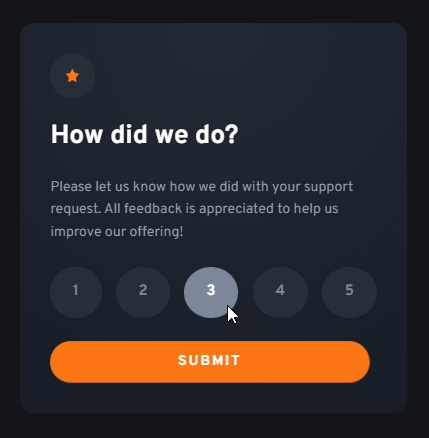
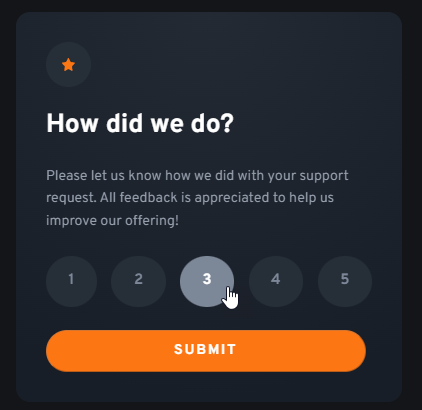
added pointer

diff --git a/index.html b/index.html
@@ -31,7 +31,7 @@
         <p class="support-question">Please let us know how we did with your support request. All feedback is appreciated 
         to help us improve our offering!</p>
 
-        <form class="button-group-ratings" action="" method="post">
+        <form class="button-group-ratings" action="#" method="post">
           <input type="radio" id="1" name="radios" value="1">
           <label id="lbl1" for="1">1</label>
           <input type="radio" id="2" name="radios" value="2">

diff --git a/css/styles.css b/css/styles.css
@@ -233,6 +233,7 @@ input[type="radio"] + label {
 input[type="radio"]:hover + label {
     color: #FFFFFF;
     background-color: #7C8798;
+    cursor: pointer;
   }
 
 /* Styling for the SUBMIT button
@@ -262,6 +263,7 @@ input[type="radio"]:hover + label {
 #submit:hover {
   color: #FC7614;
   background-color: #FFFFFF;
+  cursor: pointer;
 }
 
 /* Thank you card styling
